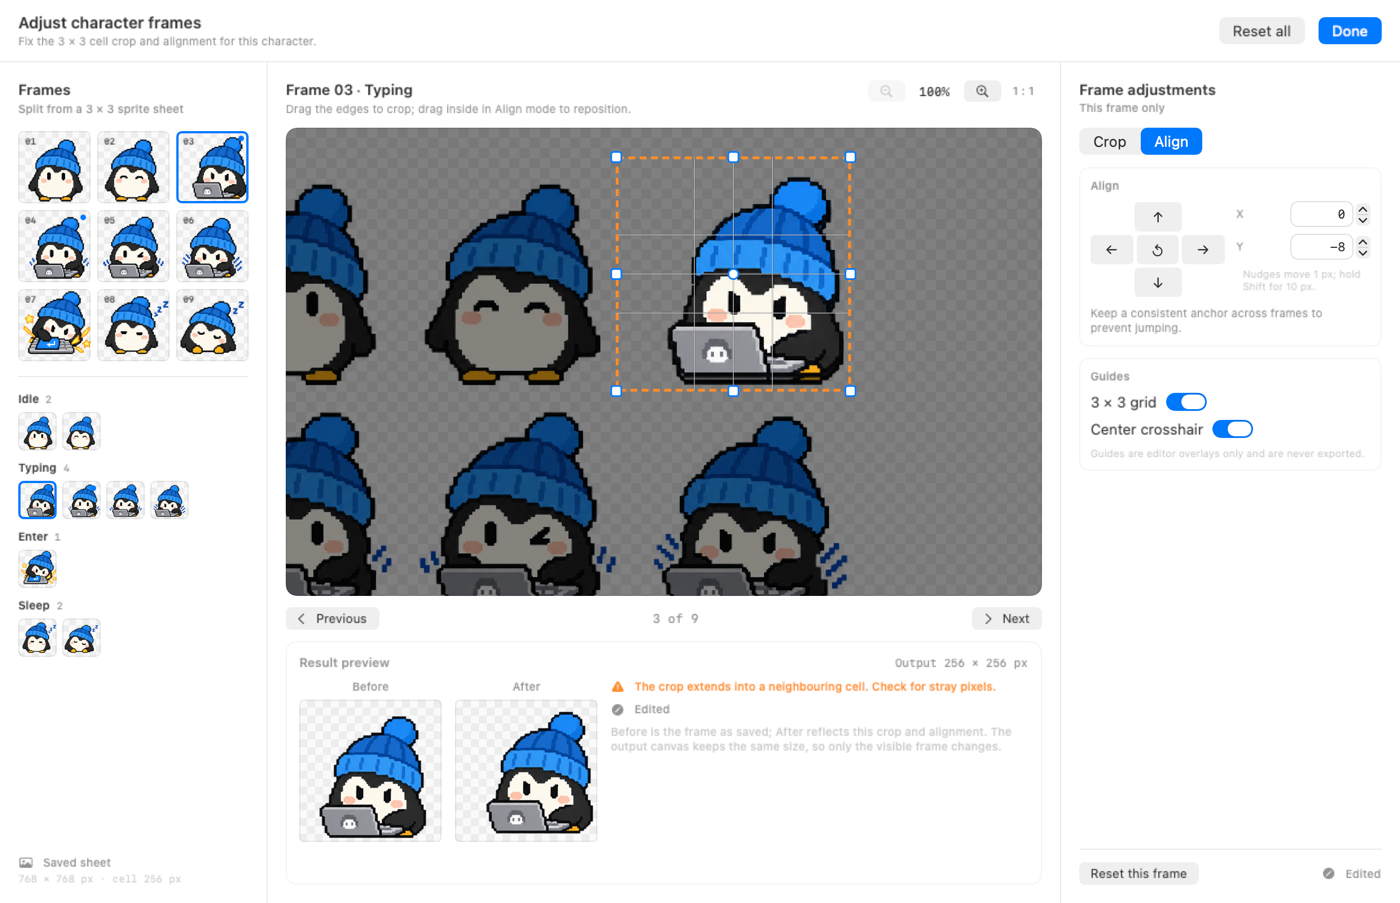
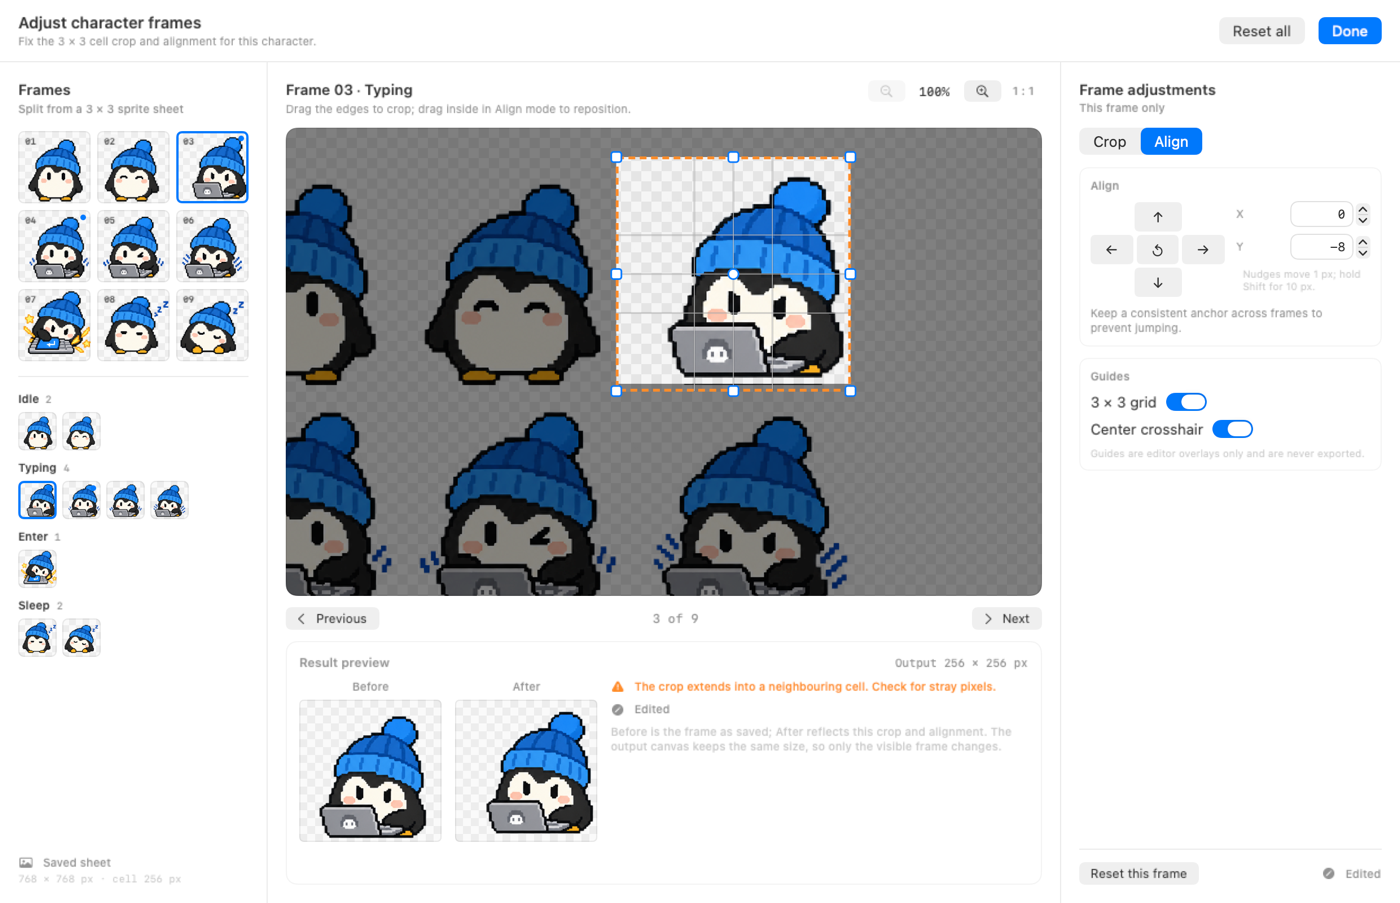
fix(character): prevent released editor resurrection and single-composite canvas foreground (#151)
Address the two findings in the latest Pullfrog review:

- Recheck release/cancellation after the suspended sheet decode before restoring
  any prepared state, and guard both completion paths. A decode that finishes
  after release now drops its result instead of reattaching the decoded sheet,
  editing state and thumbnail caches to a dismissed model. The decoder is
  injectable so a new test suspends it, releases the editor, resumes the decode
  and verifies every heavy reference stays cleared.
- The precision canvas now repaints the clean checkerboard inside the foreground
  clip (copy blend) before drawing the selected crop pixels once with normal
  alpha blending. Translucent edges no longer composite over the dimmed context
  copy, and transparent alignment padding matches the preview background. A new
  pixel test renders a 50% red sprite at zero and nonzero offsets and compares
  the centre pixel against a single-source-over-background expectation.
- Refresh the editor captures for the corrected compositing.

Verified: format, SwiftLint strict, cccc, safety, 192 app tests, 105 core tests,
Release build.

Changed region(s): [[0.43, 0.155, 0.6143, 0.4341]]

diff --git a/Tests/WaddlyAppTests/FrameEditorCanvasCompositingTests.swift b/Tests/WaddlyAppTests/FrameEditorCanvasCompositingTests.swift
@@ -1,0 +1,102 @@
+import AppKit
+import Testing
+@testable import WaddlyApp
+import WaddlyCore
+
+/// Pixel checks for the precision canvas foreground compositing.
+@Suite(.serialized) @MainActor struct FrameEditorCanvasCompositingTests {
+    /// A translucent sprite must be composited once over the clean preview checkerboard, matching
+    /// After/export, not once over the dimmed context and again as the foreground.
+    @Test func translucentContentIsCompositedOnceAtZeroAndNonzeroOffsets() throws {
+        let source = try makeTranslucentSource()
+        let background = try canvasPixel(source: nil, offset: 0)
+        let expected = blend(red: 255, green: 0, blue: 0, alpha: 0.5, over: background)
+
+        for offset in [0, 5] {
+            let actual = try canvasPixel(source: source, offset: offset)
+            #expect(abs(actual.red - expected.red) <= 4, "red at offset \(offset): \(actual) vs \(expected)")
+            #expect(abs(actual.green - expected.green) <= 4, "green at offset \(offset)")
+            #expect(abs(actual.blue - expected.blue) <= 4, "blue at offset \(offset)")
+        }
+    }
+
+    private func makeTranslucentSource() throws -> CGImage {
+        let side = 20
+        let space = try #require(CGColorSpace(name: CGColorSpace.sRGB))
+        let context = try #require(CGContext(
+            data: nil,
+            width: side,
+            height: side,
+            bitsPerComponent: 8,
+            bytesPerRow: 0,
+            space: space,
+            bitmapInfo: CGImageAlphaInfo.premultipliedLast.rawValue
+        ))
+        context.setBlendMode(.copy)
+        try context.setFillColor(#require(CGColor(colorSpace: space, components: [1, 0, 0, 0.5])))
+        context.fill(CGRect(x: 0, y: 0, width: side, height: side))
+        return try #require(context.makeImage())
+    }
+
+    private func canvasPixel(source: CGImage?, offset: Int) throws -> Pixel {
+        let view = FrameCanvasNSView(frame: NSRect(x: 0, y: 0, width: 300, height: 300))
+        view.appearance = NSAppearance(named: .aqua)
+        view.apply(FrameCanvasConfiguration(
+            source: source,
+            sourceSide: 20,
+            canvasSide: 20,
+            nominalCell: SquareCrop(x: 0, y: 0, size: 20),
+            adjustment: FrameAdjustment(
+                crop: SquareCrop(x: 0, y: 0, size: 20),
+                offsetX: offset,
+                offsetY: offset
+            ),
+            tool: .crop,
+            zoomPercent: 100,
+            showsGrid: false,
+            showsCrosshair: false,
+            showsWarning: false
+        ))
+        view.layoutSubtreeIfNeeded()
+        view.displayIfNeeded()
+
+        let bitmap = try #require(NSBitmapImageRep(
+            bitmapDataPlanes: nil,
+            pixelsWide: 300,
+            pixelsHigh: 300,
+            bitsPerSample: 8,
+            samplesPerPixel: 4,
+            hasAlpha: true,
+            isPlanar: false,
+            colorSpaceName: .deviceRGB,
+            bytesPerRow: 0,
+            bitsPerPixel: 0
+        ))
+        let graphics = try #require(NSGraphicsContext(bitmapImageRep: bitmap))
+        NSGraphicsContext.saveGraphicsState()
+        NSGraphicsContext.current = graphics
+        view.cacheDisplay(in: view.bounds, to: bitmap)
+        NSGraphicsContext.restoreGraphicsState()
+
+        let color = try #require(bitmap.colorAt(x: 150, y: 150)?.usingColorSpace(.sRGB))
+        return Pixel(
+            red: Int((color.redComponent * 255).rounded()),
+            green: Int((color.greenComponent * 255).rounded()),
+            blue: Int((color.blueComponent * 255).rounded())
+        )
+    }
+
+    private func blend(red: Int, green: Int, blue: Int, alpha: Double, over background: Pixel) -> Pixel {
+        Pixel(
+            red: Int((Double(red) * alpha + Double(background.red) * (1 - alpha)).rounded()),
+            green: Int((Double(green) * alpha + Double(background.green) * (1 - alpha)).rounded()),
+            blue: Int((Double(blue) * alpha + Double(background.blue) * (1 - alpha)).rounded())
+        )
+    }
+
+    private struct Pixel {
+        let red: Int
+        let green: Int
+        let blue: Int
+    }
+}

diff --git a/Sources/WaddlyApp/CharacterFrameEditorModel.swift b/Sources/WaddlyApp/CharacterFrameEditorModel.swift
@@ -53,12 +53,20 @@ final class CharacterFrameEditorModel: ObservableObject {
     /// stepper clicks; a crop origin or another tool resets it.
     var cropSizeAnchor: CropSizeAnchor?
     private var sheetPNGData: Data?
+    /// Decodes the retained sheet. Injectable so tests can suspend a decode and release the editor
+    /// while it is in flight.
+    private let sheetDecoder: @Sendable (Data) async -> CGImage?
     /// Only used to report the entry point's source details and to stage the reviewed draft.
     private(set) weak var importModel: CharacterImportModel?
 
-    init(importModel: CharacterImportModel, localization: LocalizationController) {
+    init(
+        importModel: CharacterImportModel,
+        localization: LocalizationController,
+        sheetDecoder: (@Sendable (Data) async -> CGImage?)? = nil
+    ) {
         self.importModel = importModel
         self.localization = localization
+        self.sheetDecoder = sheetDecoder ?? { data in await Self.decodeSheet(data) }
         sourceFrames = importModel.stagedFrames ?? PetImageSet()
     }
 
@@ -70,6 +78,7 @@ final class CharacterFrameEditorModel: ObservableObject {
         editing: SpriteFrameEditing? = nil
     ) {
         self.localization = localization
+        sheetDecoder = { data in await Self.decodeSheet(data) }
         sourceFrames = frames
         if let editing {
             self.editing = editing
@@ -91,11 +100,15 @@ final class CharacterFrameEditorModel: ObservableObject {
         guard isLoading, !isReleased else { return }
         let frames = sourceFrames
         if let source = frames.editingSource, let data = source.sheetPNGData {
-            if let decoded = await Self.decodeSheet(data) {
+            if let decoded = await sheetDecoder(data) {
+                // The sheet can be dismissed while the decode is suspended; do not resurrect the
+                // resources that releaseResources() already dropped.
+                guard !isReleased, !Task.isCancelled else { return }
                 completePreparation(editing: source.editing, sheet: decoded, data: data)
                 return
             }
         }
+        guard !isReleased, !Task.isCancelled else { return }
         completeIndividualPreparation(frames: frames)
     }
 
@@ -106,6 +119,7 @@ final class CharacterFrameEditorModel: ObservableObject {
     }
 
     private func completePreparation(editing: SpriteFrameEditing, sheet: CGImage, data: Data) {
+        guard !isReleased else { return }
         self.editing = editing.normalized
         self.sheet = sheet
         sheetPNGData = data
@@ -115,6 +129,7 @@ final class CharacterFrameEditorModel: ObservableObject {
     }
 
     private func completeIndividualPreparation(frames: PetImageSet) {
+        guard !isReleased else { return }
         guard let editing = PetImageEditingSource.individualEditing(for: frames) else {
             composeFailed = true
             isLoading = false

diff --git a/Tests/WaddlyAppTests/CharacterFrameEditorModelTests.swift b/Tests/WaddlyAppTests/CharacterFrameEditorModelTests.swift
@@ -142,6 +142,36 @@ import WaddlyCore
         #expect(weakSheet == nil)
     }
 
+    /// Releasing the editor while the sheet decode is suspended must not repopulate its heavy
+    /// resources when the decode resumes.
+    @Test func releaseDuringPreparationWinsTheRace() async throws {
+        let importModel = CharacterImportModel(
+            currentImages: { PetImageSet() },
+            commit: { _ in .committed }
+        )
+        try await importModel.stageFiles(at: [SetupWizardFixture.sheetURL()])
+        let source = try #require(importModel.stagedFrames?.editingSource?.sheetPNGData)
+        let sheet = try #require(PetFrameSourceDecoder.sheetImage(from: source))
+        let gate = SheetDecodeGate()
+        let editor = try CharacterFrameEditorModel(
+            importModel: importModel,
+            localization: makeLocalization(),
+            sheetDecoder: { _ in await gate.wait() }
+        )
+        let task = Task { await editor.prepare() }
+        #expect(await gate.waitUntilStarted())
+        editor.releaseResources()
+        gate.resume(sheet)
+        await task.value
+
+        #expect(editor.isReleased)
+        #expect(editor.sheet == nil)
+        #expect(editor.editing == nil)
+        #expect(editor.baseThumbnails.isEmpty)
+        #expect(editor.adjustedThumbnails.isEmpty)
+        #expect(!editor.sourceFrames.isComplete)
+    }
+
     /// Even if a future host opened the editor for a custom frame layout, it must not compose or
     /// stage a truncated nine-frame draft over the user's saved frames.
     @Test func unsupportedLegacyLayoutCannotStageATruncatedDraft() async throws {
@@ -185,5 +215,38 @@ import WaddlyCore
         let standard = CharacterImportModel(currentImages: { plain }, commit: { _ in .committed })
         standard.reload()
         #expect(standard.canAdjustFrames)
+    }
+}
+
+/// Suspends the injected sheet decode so a test can release the editor while it is in flight.
+@MainActor
+private final class SheetDecodeGate {
+    private var started = false
+    private var continuation: CheckedContinuation<CGImage?, Never>?
+    private var releasedImage: CGImage?
+
+    func wait() async -> CGImage? {
+        started = true
+        if let releasedImage {
+            return releasedImage
+        }
+        return await withCheckedContinuation { continuation = $0 }
+    }
+
+    func waitUntilStarted() async -> Bool {
+        for _ in 0 ..< 500 {
+            if started {
+                return true
+            }
+            await Task.yield()
+        }
+        return started
+    }
+
+    func resume(_ image: CGImage?) {
+        releasedImage = image
+        guard let continuation else { return }
+        self.continuation = nil
+        continuation.resume(returning: image)
     }
 }

diff --git a/Sources/WaddlyApp/FrameEditorCanvasGeometry.swift b/Sources/WaddlyApp/FrameEditorCanvasGeometry.swift
@@ -164,6 +164,11 @@ extension FrameCanvasNSView {
         // out, and the output clip mirrors the exported canvas bounds.
         context.cgContext.clip(to: cropRect)
         context.cgContext.clip(to: outputRect.offsetBy(dx: -offset.x, dy: -offset.y))
+        // Replace the dimmed context inside the output with the same checkerboard the foreground
+        // is composited onto in After/export, then draw the selected pixels exactly once.
+        context.cgContext.setBlendMode(.copy)
+        drawBackground(in: context)
+        context.cgContext.setBlendMode(.normal)
         drawImage(source, in: sourceViewRect, context: context)
         context.cgContext.restoreGState()
     }
